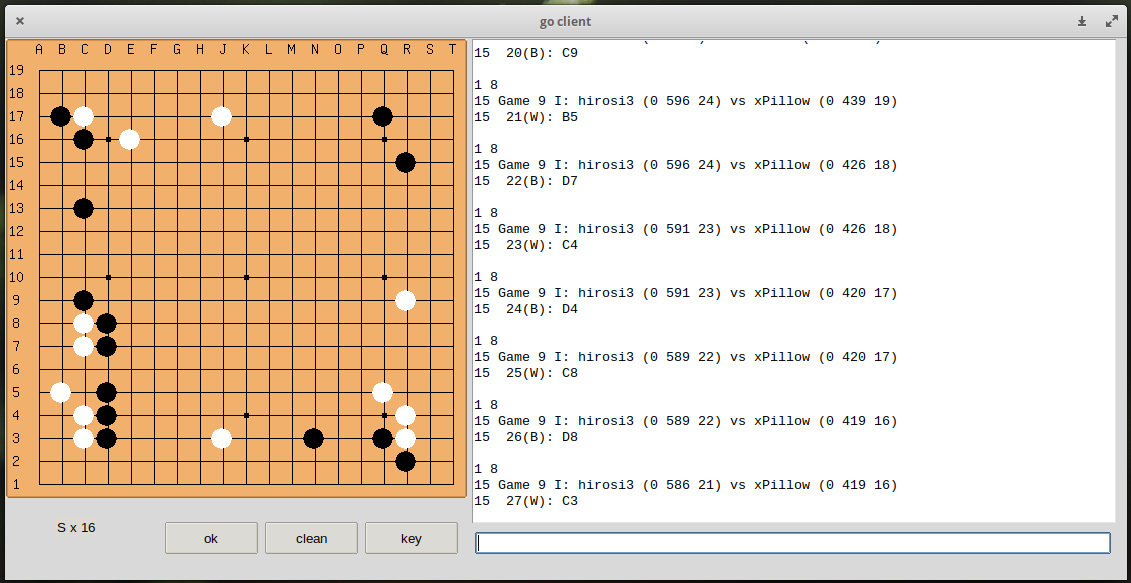
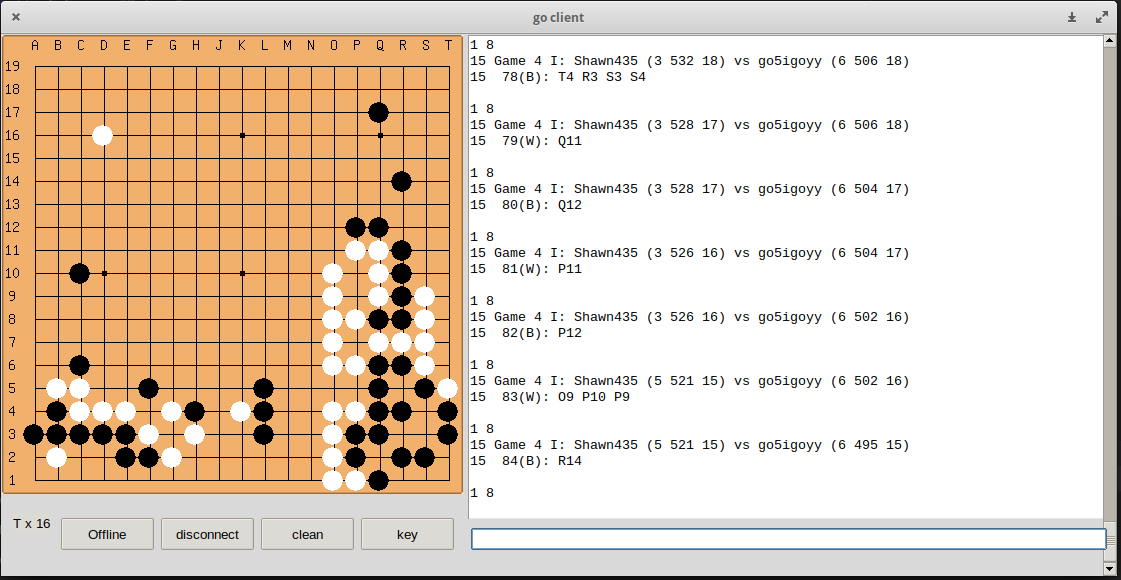
fixes and also capturing stones is now working

Changed region(s): [[0.0, 0.0, 0.9991, 1.0]]

diff --git a/pygo.py b/pygo.py
@@ -125,13 +125,29 @@ class App(object):
                     # TODO: when starting to observe, loop first through previous moves (moves <game_id>)
                     # TODO: make it a true list, not fixed to [0], then loop on the list to treat captures
                     # TODO: investigate some moves are listed from buffer but not replicated on the UI (bad regex?)
-                    my_coords = re.findall(r'(?<=\([B-W]\):.).\d+', my_buffer)  # find coords
+                    # my_bufferz = "15  51(W): T15 S14 S15"
+                    my_coords = re.findall(r'(?<=\([B-W]\):.).*', my_buffer)  # find coords
                     my_color = re.findall(r'([BW])', my_buffer)  # find color
-                    if not my_color or not my_coords:
+
+                    if not my_color and not my_coords:
                         pass
                     else:
-                        print("my_buffer=[", my_buffer, "]\n")
-                        self.put_stone(my_color[0], my_coords[0])
+                        # print("my_buffer=", my_buffer, "\n")
+                        # print("my_buffer type=", type(my_buffer), "\n")
+                        # print("my_coords=", my_coords, "\n")
+                        # print("my_coords type=", type(my_coords), "\n")
+                        my_temp = re.sub(r'\r', '', my_coords[0])
+                        my_temp = my_temp.split( )
+                        my_move = my_temp[0]
+                        # print("my_temp=", my_temp, "\n")
+                        # print("my_temp type=", type(my_temp), "\n")
+                        # print("my_move=", my_move, "\n")
+                        # print("my_move type=", type(my_move), "\n")
+                        del my_temp[0]
+                        if len(my_temp) > 0:
+                            self.del_stone(my_temp)
+                            pass
+                        self.put_stone(my_color[0], my_move)
             self.root.after(2000, self.read_igs)
 
     def input_igs(self, event=None):
@@ -163,8 +179,11 @@ class App(object):
             del self.mydict[stone]
 
     def put_stone(self, color, coords):
-        get_letter = (re.findall(r'([A-Z])', coords)[-1])
-        get_pos_y = (re.findall(r'(\d+)', coords)[-1])
+        # get_letter = (re.findall(r'([A-Z])', coords)[-1])
+        # get_pos_y = (re.findall(r'(\d+)', coords)[-1])
+
+        get_letter = re.sub('[^A-Za-z]', '', coords)
+        get_pos_y = re.sub('[^0-9]', '', coords)
         mykey = get_letter + get_pos_y
         res_x = int(self.letter_list.index(get_letter)) * 23 + 32  # letter_index * offset + bordersize
         res_y = 32 + ((19 - int(get_pos_y)) * 23)  # bordersize + (boardsize - letter) * offset

diff --git a/README.md b/README.md
@@ -7,10 +7,21 @@ status: pre-alpha, work in progress, functionalities so far:
 - able to join igs  
 - follow telnet session  
 - issue commands  
-- observe others games (not fully working yet, captures not implmented)  
+- observe others games  
 - place stones on the UI according to telnet output when observing games  
 - place stones on UI with the mouse when playing alone  
 - clear board when finished a game (alone or observed ones)  
+  
+## quickstart
+- click 'Online' button
+- wait for IGS welcome message and login prompt
+- type in your ID (if already registered or else some guest ID)
+- after IGS validate your registered ID (with prompt "1 1") type in your password
+- issues commands, like: "games" to see a list of active games and then "observe <game number>"
+
+known issues:  
+connection dropped after while watching a game, i don't know why yet.  
+you can issue command 'ayt' to ask IGS if you're still connected, that should prevent a connection drop from inactivity.  
   
 <img src="https://github.com/nsklaus/igs_client/blob/master/screenshot.png?raw=true" width="300" height="200">  <img src="https://github.com/nsklaus/igs_client/blob/master/screenshot2.png?raw=true" width="300" height="200">  
 
